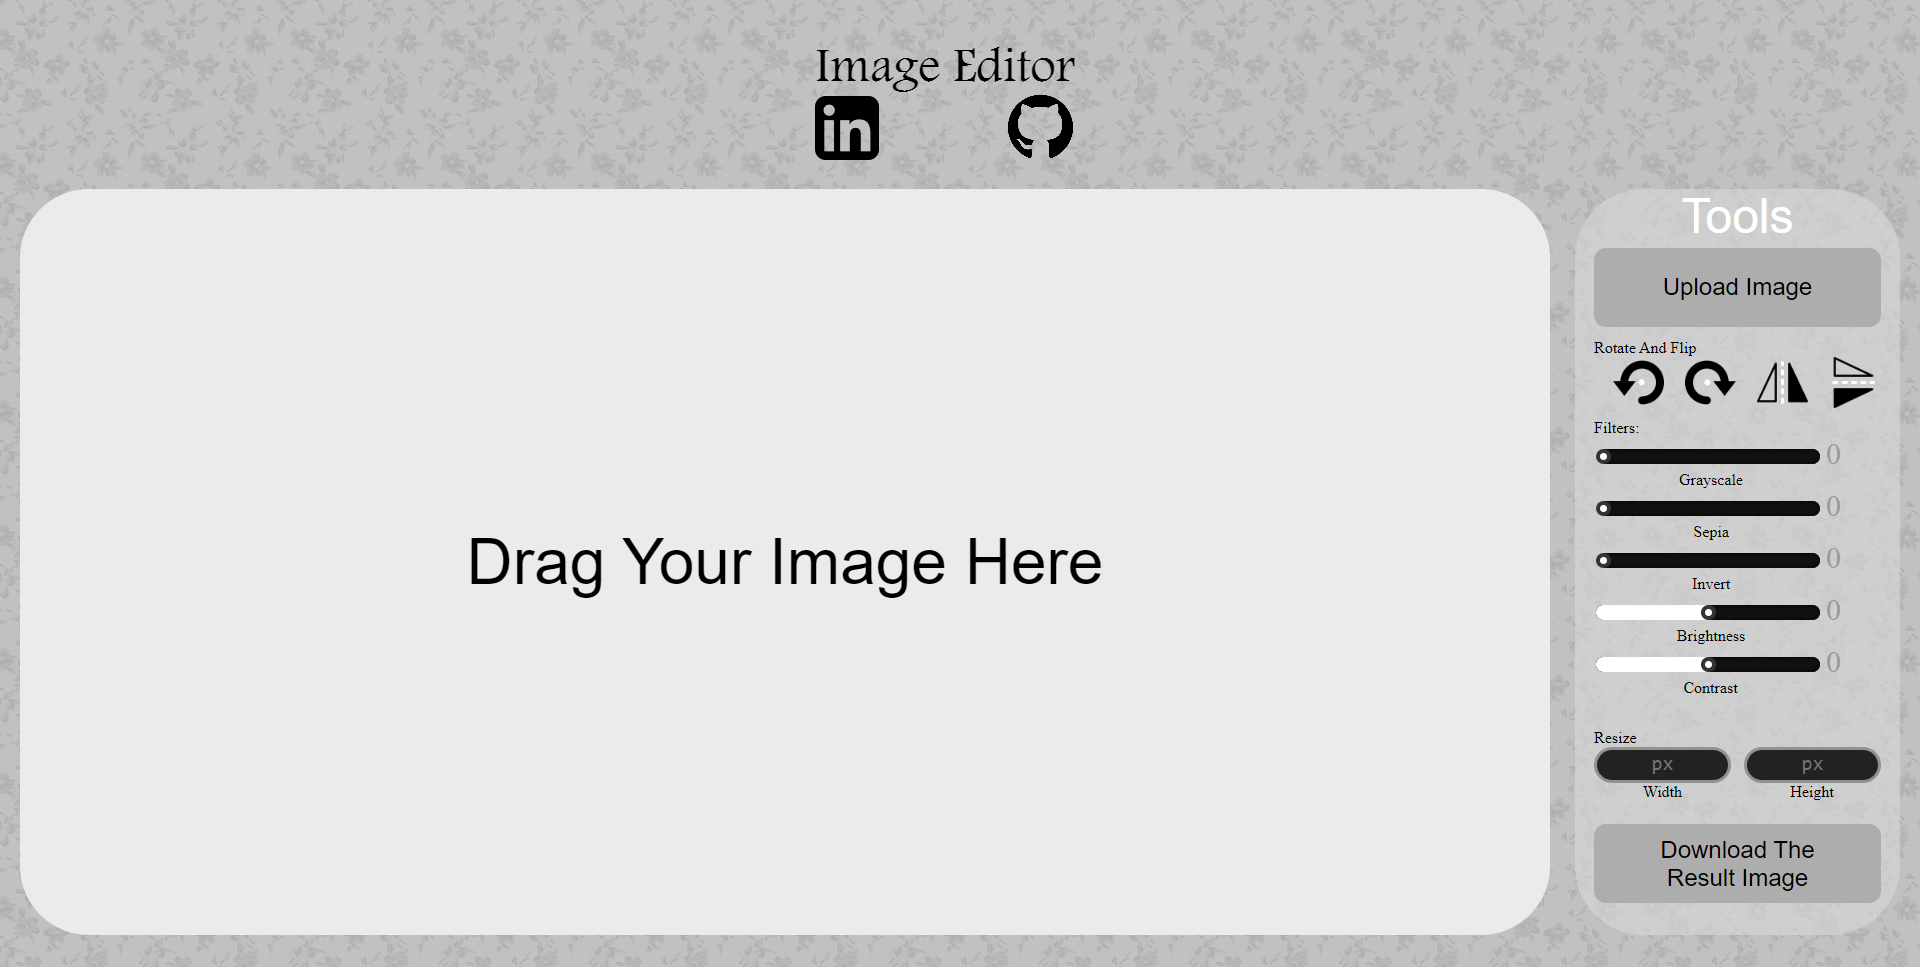
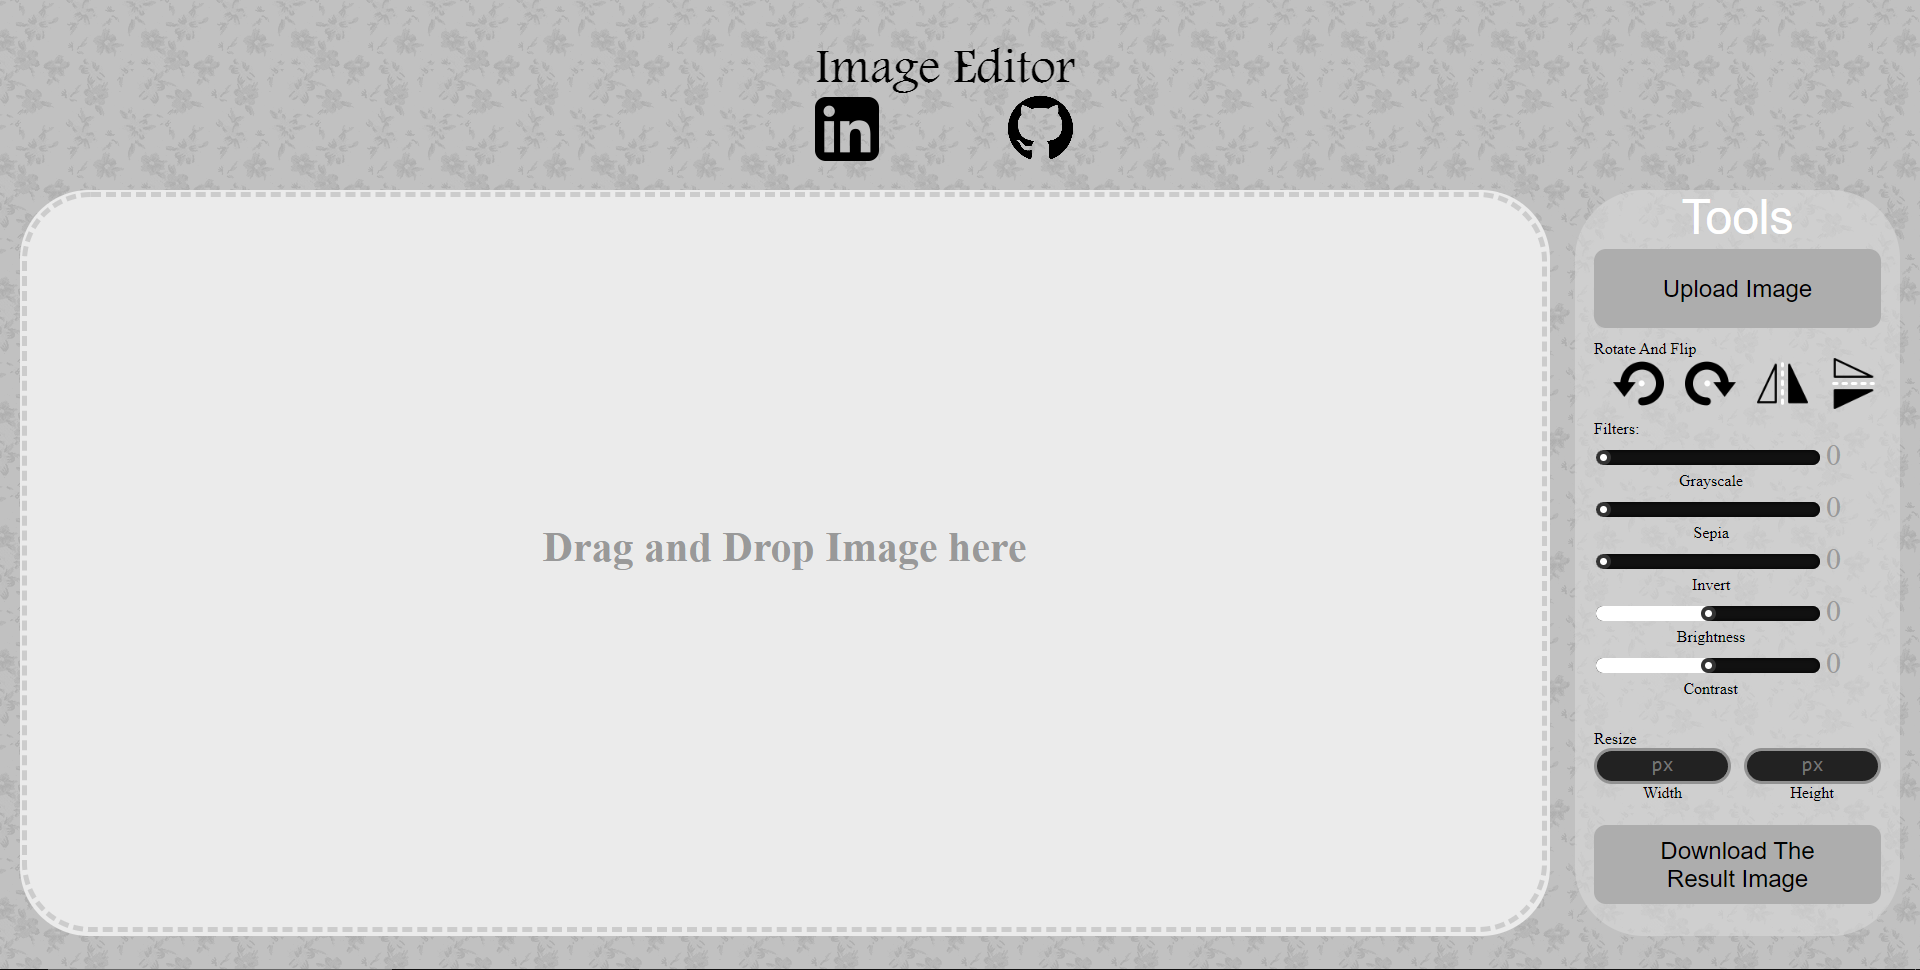
Upload Button, drag/drop Update

diff --git a/index.html b/index.html
@@ -1,6 +1,7 @@
 <html>
 
 <head>
+  <script src="script.js"></script>
   <title>Image Editor</title>
   <meta charset="utf-8">
   <link rel="icon" type="image.png" href="Images/Icon">
@@ -17,10 +18,19 @@
   </div>
   </div>
   <div class=e6_15>
-    <div class=e6_46><span class="e6_40">Drag Your Image Here</span></div>
+    <div class=e6_46>
+      <span class="dragBox" id="dragBox">
+        <span>Drag and Drop Image here</span>
+        <input type="file" accept="image/*" onChange="dragNdrop(event)" ondragover="drag()" ondrop="drop()"
+          id="uploadFile">
+      </span>
+      <div id="preview"></div>
+    </div>
     <div class=e10_4>
       <div class=e10_5><span class="e10_2">Tools</span></div>
-      <div class=e6_41><span class="e6_42">Upload Image</span></div>
+      <label class="e6_41" for="uploadFile">
+        Upload Image
+      </label>
       <div class="rotateAndFlip">
         <span>Rotate And Flip</span>
         <div class="rotateAndFlip_C">
@@ -45,8 +55,7 @@
           <span style="padding-left: 99.25px;">Sepia</span>
         </div>
         <div>
-          <Input class="range" type="range" name "" value="0" min="0" max="1"
-            oninput="rangeSlide3(this.value)"></Input>
+          <Input class="range" type="range" name "" value="0" min="0" max="1" oninput="rangeSlide3(this.value)"></Input>
           <span id="rangeValue3">0</span>
           <span style="padding-left: 97.9px;">Invert</span>
         </div>
@@ -68,10 +77,10 @@
         <span>Resize</span>
         <div class="WH-C">
           <div class="e8_11">
-            <textarea placeholder="px"></textarea>
+            <textarea placeholder="px" maxlength="4"></textarea>
           </div>
           <div class="e8_13">
-            <textarea placeholder="px"></textarea>
+            <textarea placeholder="px" maxlength="4"></textarea>
           </div>
         </div>
         <span style="margin-left:48.7px">Width</span>
@@ -79,8 +88,7 @@
       </div>
 
     </div>
-  </div>
-  <!-- <button id="download">Download Canvas</button>
+    <!-- <button id="download">Download Canvas</button>
   <canvas id="canvas"></canvas>
   <script src="script.js"></script> -->
 </body>

diff --git a/styles.css b/styles.css
@@ -142,19 +142,11 @@ body {
 	border-top-right-radius: 12px;
 	border-bottom-left-radius: 12px;
 	border-bottom-right-radius: 12px;
-}
-
-.e6_42 {
-	color: rgba(0, 0, 0, 1);
-	width: 158px;
-	height: 28px;
-	position: absolute;
-	left: 64.5px;
-	top: 25.5px;
 	font-family: Arial;
 	text-align: center;
 	font-size: 24px;
-	letter-spacing: 0;
+	line-height: 80px;
+	cursor: pointer;
 }
 
 .rotateAndFlip {
@@ -345,4 +337,55 @@ button:hover {
 	cursor: pointer;
 	border: 4px solid #333;
 	box-shadow: -407px 0 0 400px #ffffff;
+}
+
+
+
+
+
+
+
+.dragBox {
+	position:absolute;
+	border-top-left-radius: 69px;
+	border-top-right-radius: 69px;
+	border-bottom-left-radius: 69px;
+	border-bottom-right-radius: 69px;
+	position: absolute;
+	left:2px;
+	top:2px;
+	width: 1515px;
+	height:730px;
+	text-align: center;
+	font-weight: bold;
+	font-size: 42px;
+	line-height: 700px;
+	color: #999;
+	border: 5px dashed #ccc;
+	display: inline-block;
+	transition: transform 0.3s;
+	display:block;
+}
+
+input[type="file"] {
+		position: absolute;
+		height: 100%;
+		width: 100%;
+		opacity: 0;
+		top: 0;
+		left: 0;
+		cursor:pointer;
+	}
+.draging {
+	transform: scale(1.1);
+}
+
+img {
+	position:absolute;
+	border-top-left-radius: 69px;
+	border-top-right-radius: 69px;
+	border-bottom-left-radius: 69px;
+	border-bottom-right-radius: 69px;
+	width: 1530px;
+	height:746px;
 }

diff --git a/script.js b/script.js
@@ -13,3 +13,33 @@ function rangeSlide4(value) {
 function rangeSlide5(value) {
     document.getElementById('rangeValue5').innerHTML = value;
 }
+
+
+"use strict";
+
+//we need three functions here
+//1.dragNdrop(event)
+
+function dragNdrop(event){
+    var filename = URL.createObjectURL(event.target.files[0]); //will store file name with src
+	var preview = document.getElementById('preview'); //the div where we will show image
+	var previewImg = document.createElement("img"); //creating new image tag
+	previewImg.setAttribute("src",filename); //setting attribute src of newly created "img" element to "filename"
+	preview.innerHTML = "";
+	preview.appendChild(previewImg); //finally append "img" element to parent element "preview"
+}
+
+//2. drag
+
+function drag(){
+	//while dragging it will fire this function that will add the following class
+	document.getElementById('uploadFile').parentNode.className = "draging dragBox";
+}
+
+//3. finally the drop()
+function drop(){
+    document.getElementById('dragBox').style.display = 'none';
+	document.getElementById('uploadFile').parentNode.className = 'dragBox';
+}
+
+// we are done... 
